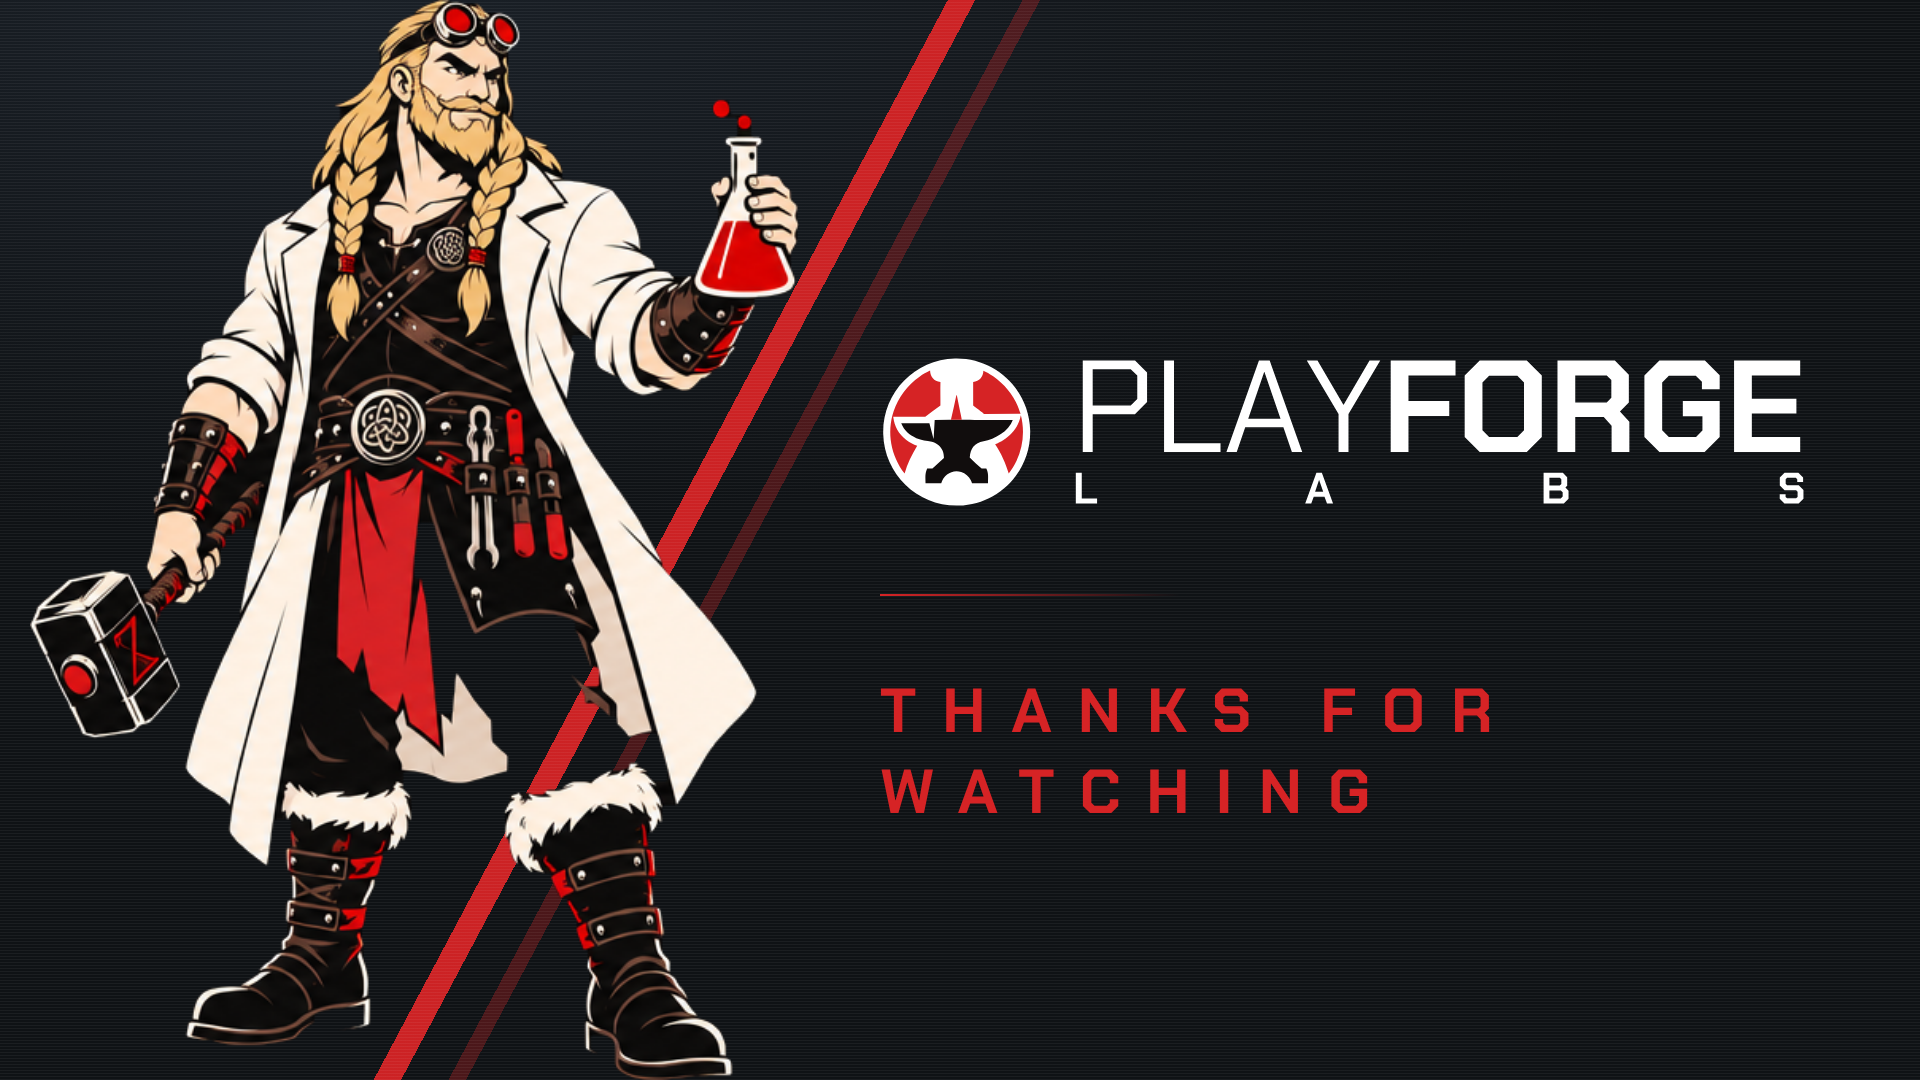
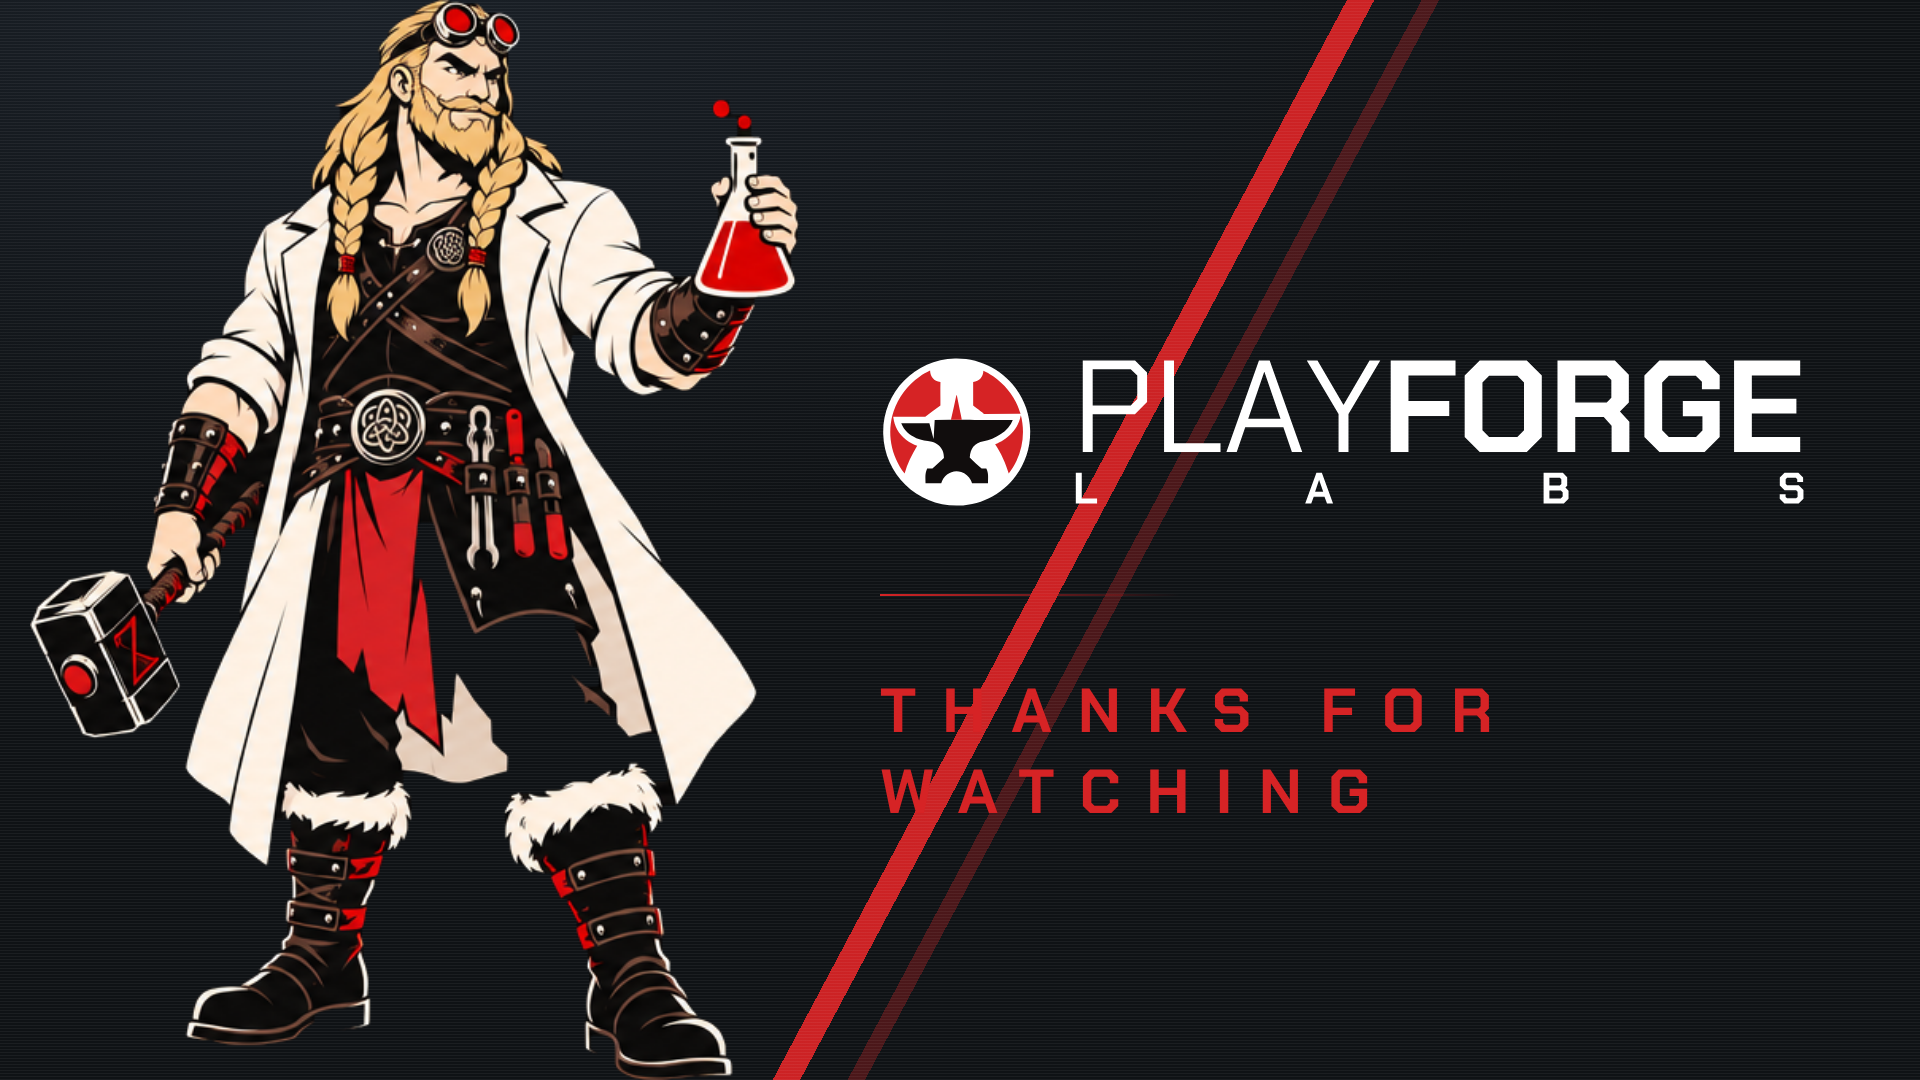
Move the shard clear of the mascot on scene screens
The red diagonal was visible in the negative space between the mascot's
legs. The cutout alpha was verified clean first — no enclosed holes and no
semi-transparent interior pixels — so this was the shard showing through
genuine background, not a masking fault.

Scene screens now use a right-shifted shard that passes between the mascot
and the wordmark. Other surfaces keep the approved shard position.

Claude-Session: https://claude.ai/code/session_01VQpikmwb7K7sP9jWmUW1g1

diff --git a/brand/tools/channel.js b/brand/tools/channel.js
@@ -24,6 +24,9 @@ const CSS = `
  .shard{position:absolute;inset:0;z-index:0;background:
     linear-gradient(118deg, transparent 0 38%, rgba(214,35,37,.95) 38% 39.1%,
     transparent 39.1% 41%, rgba(214,35,37,.30) 41% 41.7%, transparent 41.7%)}
+ .shard-r{position:absolute;inset:0;z-index:0;background:
+    linear-gradient(118deg, transparent 0 54%, rgba(214,35,37,.95) 54% 55.1%,
+    transparent 55.1% 57%, rgba(214,35,37,.30) 57% 57.7%, transparent 57.7%)}
  .grain{position:absolute;inset:0;z-index:0;opacity:.05;background-image:
     repeating-linear-gradient(0deg,#fff 0 1px,transparent 1px 3px)}
  .plate{position:absolute;bottom:0;height:100%;object-fit:contain;object-position:bottom}
@@ -73,7 +76,7 @@ function panelHTML(title, w, h) {
 function sceneLeft(label, w, h) {
   const k = w / 1920;
   return `
-   <div class="shard"></div><div class="grain"></div>
+   <div class="shard-r"></div><div class="grain"></div>
    <img src="${PLATE}" style="position:absolute;left:${30*k}px;bottom:0;height:100%;
         object-fit:contain;object-position:bottom;z-index:2">
    <div class="lock" style="position:absolute;left:${880*k}px;top:40%;
